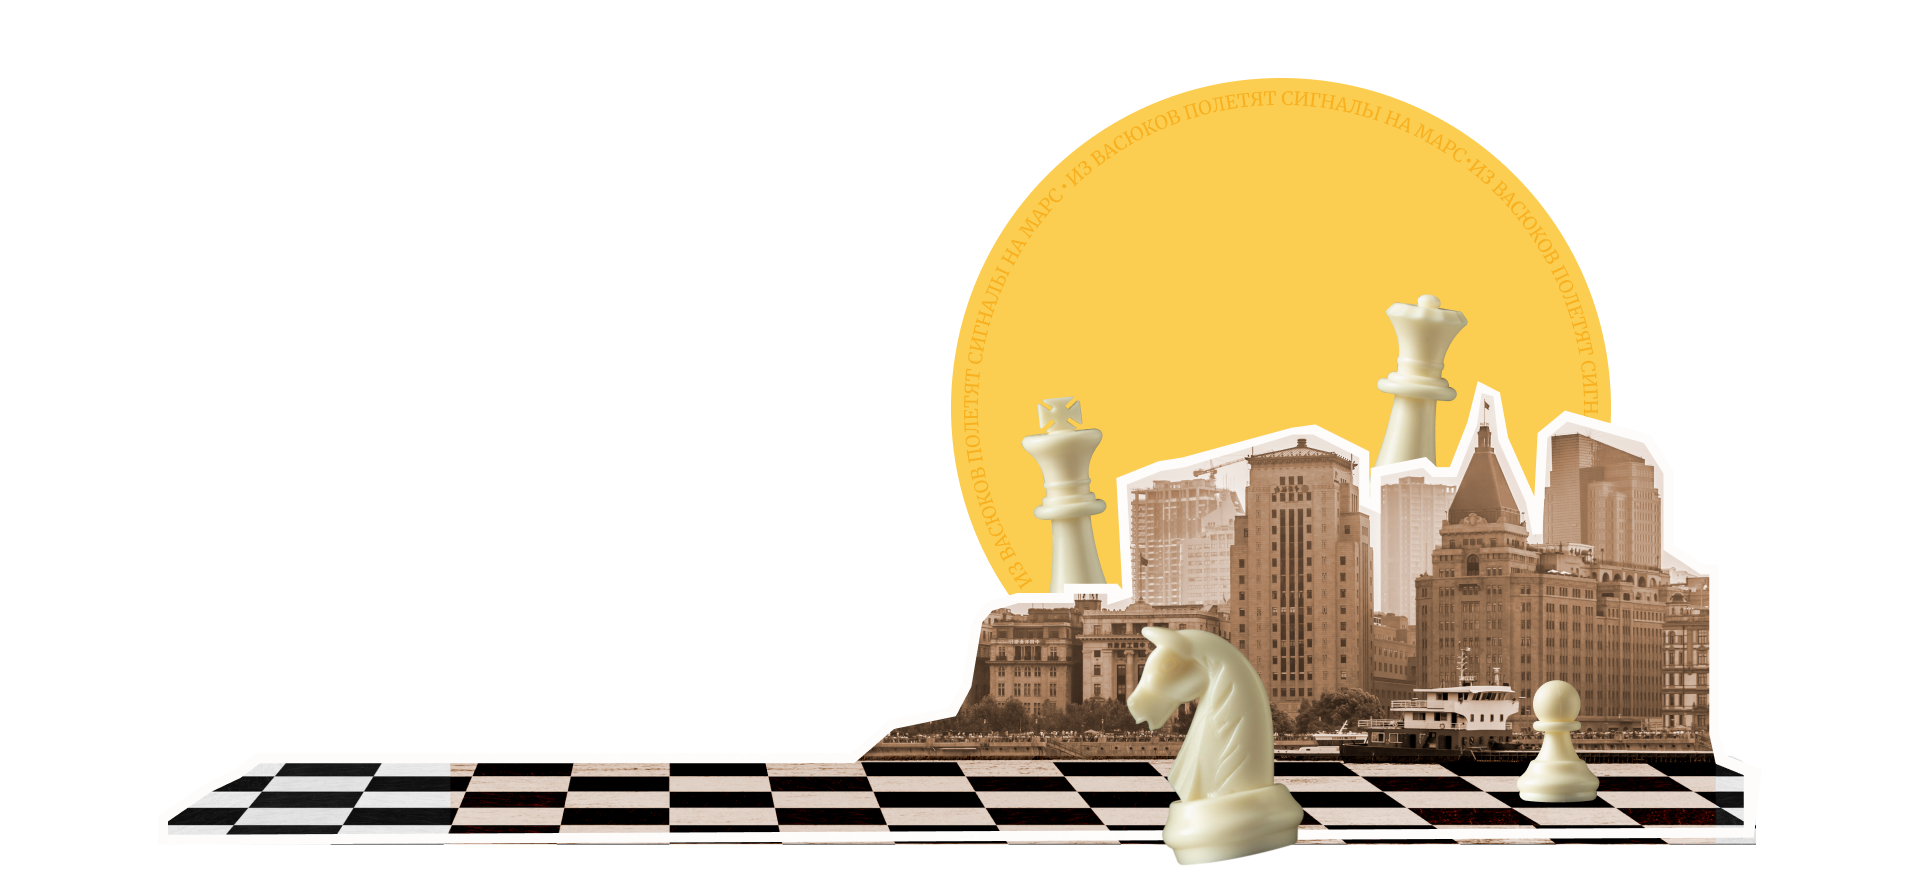
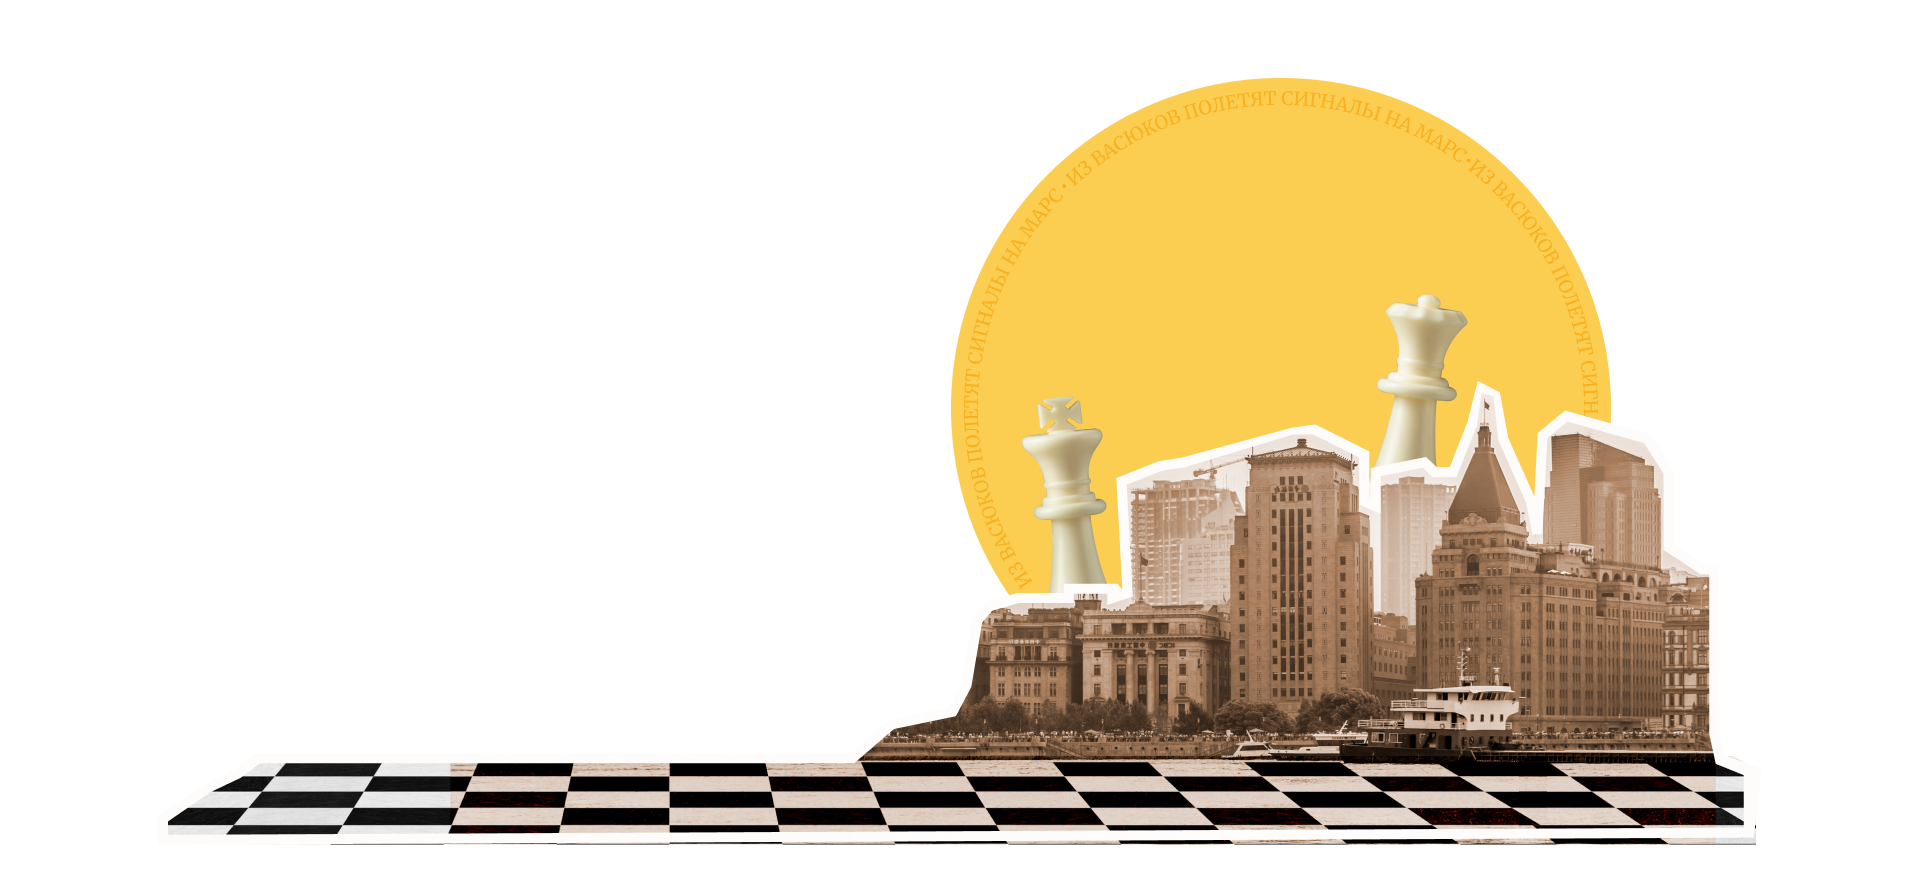
updated: fixed moquee

Changed region(s): [[0.5625, 0.7049, 0.6875, 0.9807], [0.7812, 0.7662, 0.8438, 0.9194]]

diff --git a/index.html b/index.html
@@ -35,10 +35,21 @@
                     </footer>
                 </section>
             </div>
-            <img class="home__bg" src="./img/home-2.png" alt="">
+            <img class="home__bg" src="./img/home-2.png" alt="home-bg-1">
         </div>
         
-        <marquee class="running-line" direction="left" height="60" width="100%" bgcolor="white">Scrolling text</marquee>
+        <div class="marquee">
+            <ul class="marquee__content">
+                <li>Дело помощи утопающим — дело рук самих утопающих!</li>
+                <li>Шахматы двигают вперед не только культуру, но и экономику!</li>
+                <li>Лед тронулся, господа присяжные заседатели!</li>
+            </ul>
+            <ul class="marquee__content" aria-hidden="true">
+                <li>Дело помощи утопающим — дело рук самих утопающих!</li>
+                <li>Шахматы двигают вперед не только культуру, но и экономику!</li>
+                <li>Лед тронулся, господа присяжные заседатели!</li>
+            </ul>
+        </div>
         
         <section class="support">
             <div class="container">
@@ -48,7 +59,7 @@
                 </section>
                 <section class="support__playing">
                     <div class="support__images">
-                        <img class="support__img_1" src="./img/support-2-bg.png" alt="support-2-bg">
+                        <img class="support__img_1" src="./img/support-bg.png" alt="support-bg">
                         <img class="support__img_2" src="./img/support-2.png" alt="support-img-2">
                     </div>
                     <section class="support__info">
@@ -182,7 +193,18 @@
         </section>
     </main>
 
-    <marquee class="running-line running-line-2" direction="left" height="60" width="100%" bgcolor="white">Scrolling text</marquee>
+    <div class="marquee marquee-2">
+        <ul class="marquee__content">
+            <li>Дело помощи утопающим — дело рук самих утопающих!</li>
+            <li>Шахматы двигают вперед не только культуру, но и экономику!</li>
+            <li>Лед тронулся, господа присяжные заседатели!</li>
+        </ul>
+        <ul class="marquee__content" aria-hidden="true">
+            <li>Дело помощи утопающим — дело рук самих утопающих!</li>
+            <li>Шахматы двигают вперед не только культуру, но и экономику!</li>
+            <li>Лед тронулся, господа присяжные заседатели!</li>
+        </ul>
+    </div>
 
     <footer class="footer">
         <div class="container">

diff --git a/styles/global.css b/styles/global.css
@@ -41,19 +41,66 @@ a{
     line-height: 120%;
     text-transform: uppercase;
 }
-.running-line{
+/* marquee */
+@keyframes marquee {
+    0% {
+      transform: translateX(0);
+    }
+    100% {
+      transform: translateX(-100%);
+    }
+}
+  
+.marquee {
+    --gap: 30px;
+    position: relative;
     display: flex;
-    align-items: center;
+    overflow: hidden;
+    user-select: none;
+    gap: var(--gap);
     background: #F54932;
+    height: 60px;
+
     font-family: "Merriweather";
     font-size: 22px;
     line-height: 110%;
     text-transform: uppercase;
     color: #fff;
+  }
+.marquee__content {
+    flex-shrink: 0;
+    display: flex;
+    align-items: center;
+    justify-content: space-around;
+    gap: var(--gap);
+    min-width: 100%;
+    animation: scroll 14s linear infinite;
 }
-.running-line-2{
+.marquee__content>li{position: relative;}
+.marquee__content>li::before{
+    content: "";
+    width: 6px;
+    height: 6px;
+    border-radius: 50%;
+    background-color: #fff;
+    position: absolute;
+    top: 50%;
+    right: -18px;
+    transform: translateY(-50%);
+}
+@keyframes scroll {
+    from {
+      transform: translateX(0);
+    }
+    to {
+      transform: translateX(calc(-100% - var(--gap)));
+    }
+}
+
+.marquee-2{
     margin-top: 140px;
 }
+
 th, td{
     font-family: "Golos Text";
     line-height: 120%;

diff --git a/styles/style.css b/styles/style.css
@@ -27,7 +27,7 @@
     background-image: url("../img/home-1.png");
     background-color: rgba(233, 222, 212, 1);
     background-repeat: no-repeat;
-    background-size: cover;
+    background-size: auto;
     background-position: center;
 }
 .home__bg{
@@ -42,6 +42,26 @@
     position: relative;
     z-index: 5;
     padding: 62px 0 120px;
+}
+/* Chess pieces */
+.home__inner::before, .home__inner::after{
+    content: "";
+    position: absolute;
+    background-repeat: no-repeat;
+}
+.home__inner::before{
+    background-image: url("../img/piece-2.png");
+    width: 192px;
+    height: 220px;
+    bottom: -2px;
+    right: 291px;
+}
+.home__inner::after{
+    background-image: url("../img/piece-1.png");
+    width: 90px;
+    height: 125px;
+    bottom: 25px;
+    right: 25px;
 }
 .home__title{
     font-family: "Merriweather";
@@ -89,7 +109,7 @@
     transition: all .3s;
 }
 .home__link_light{
-    background: #fff;
+    background: transparent;
     color: #1F1F1F;
     border: 2px solid #1F1F1F;
     transition: all .3s;
